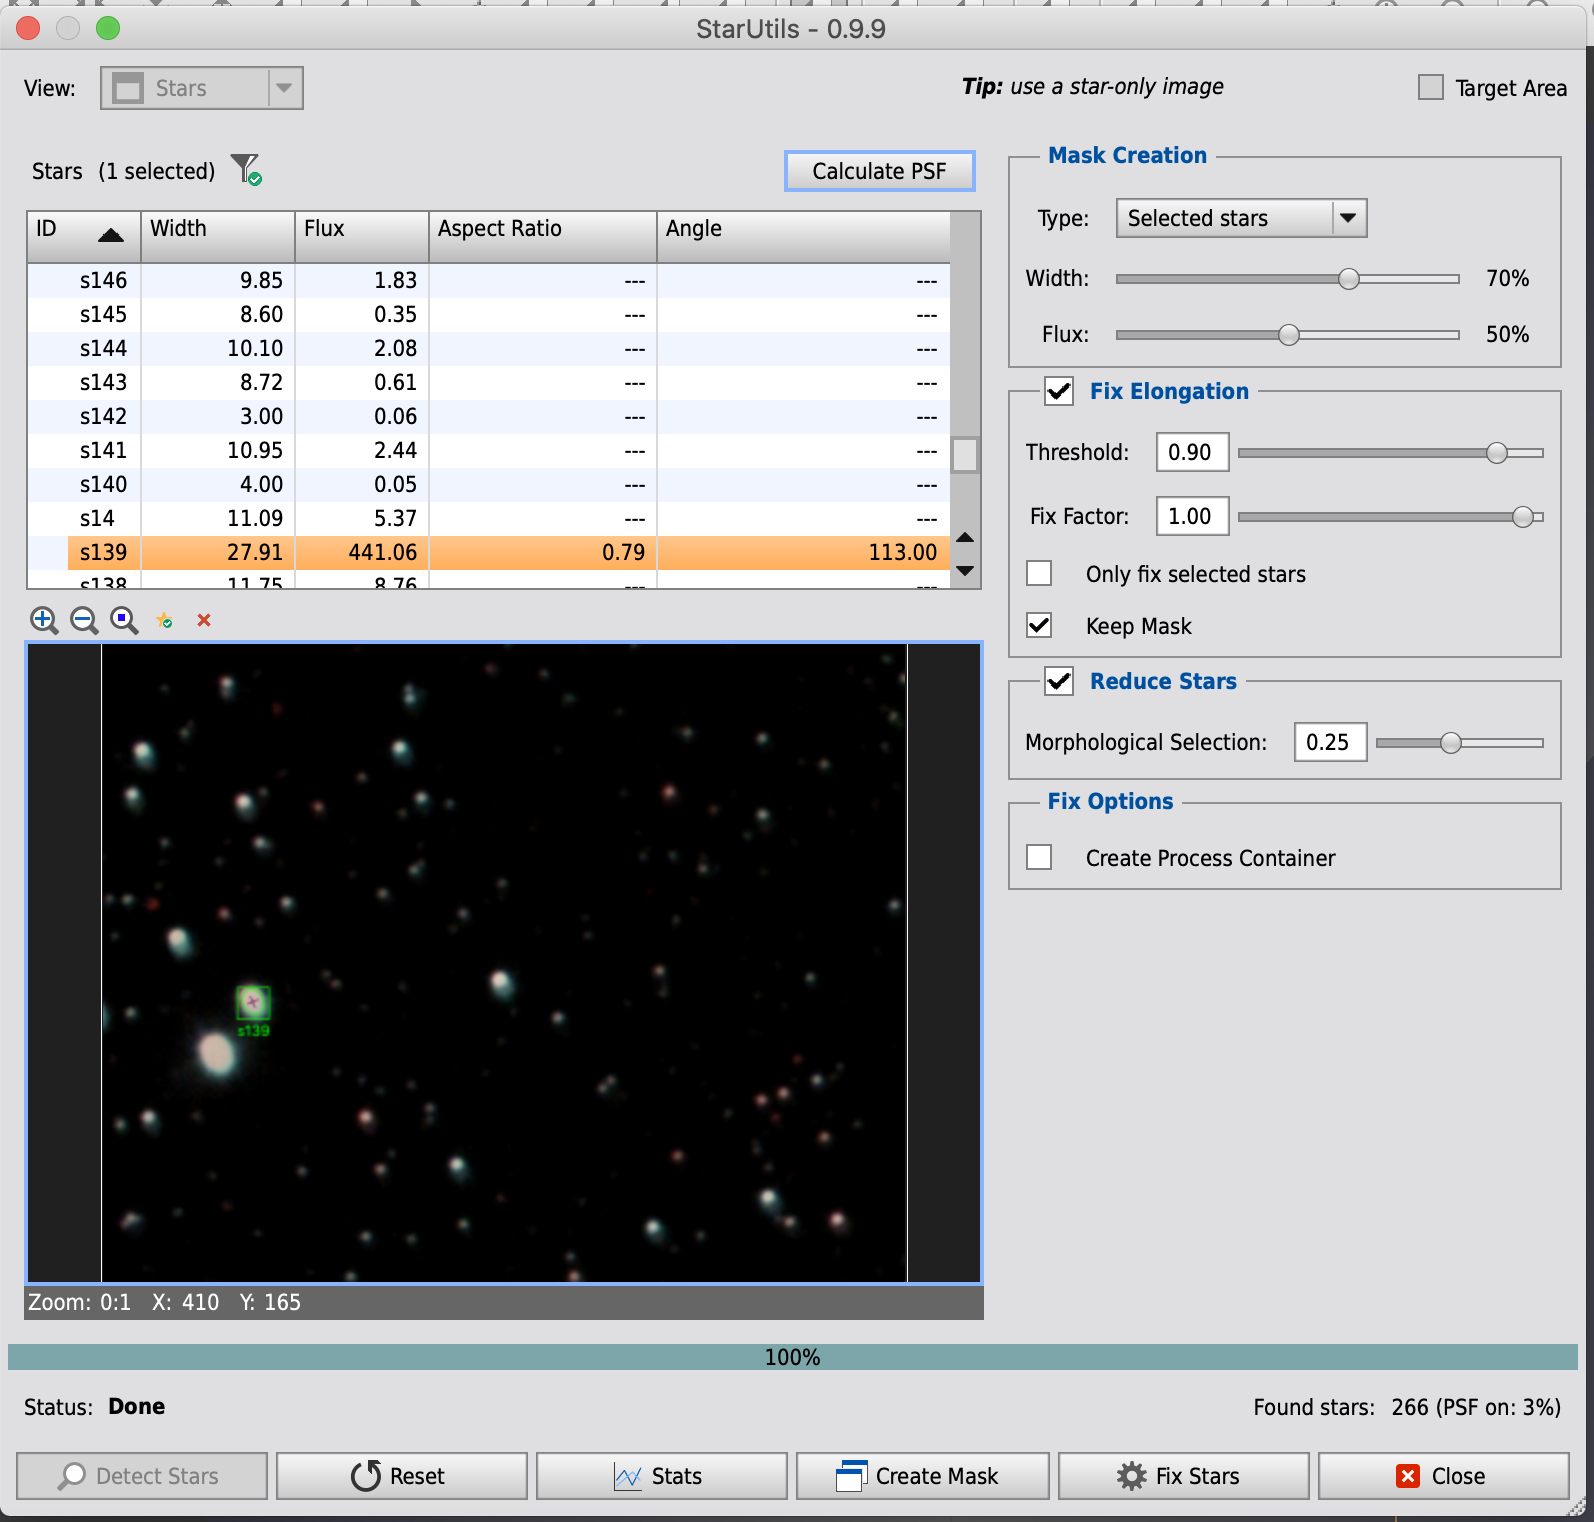
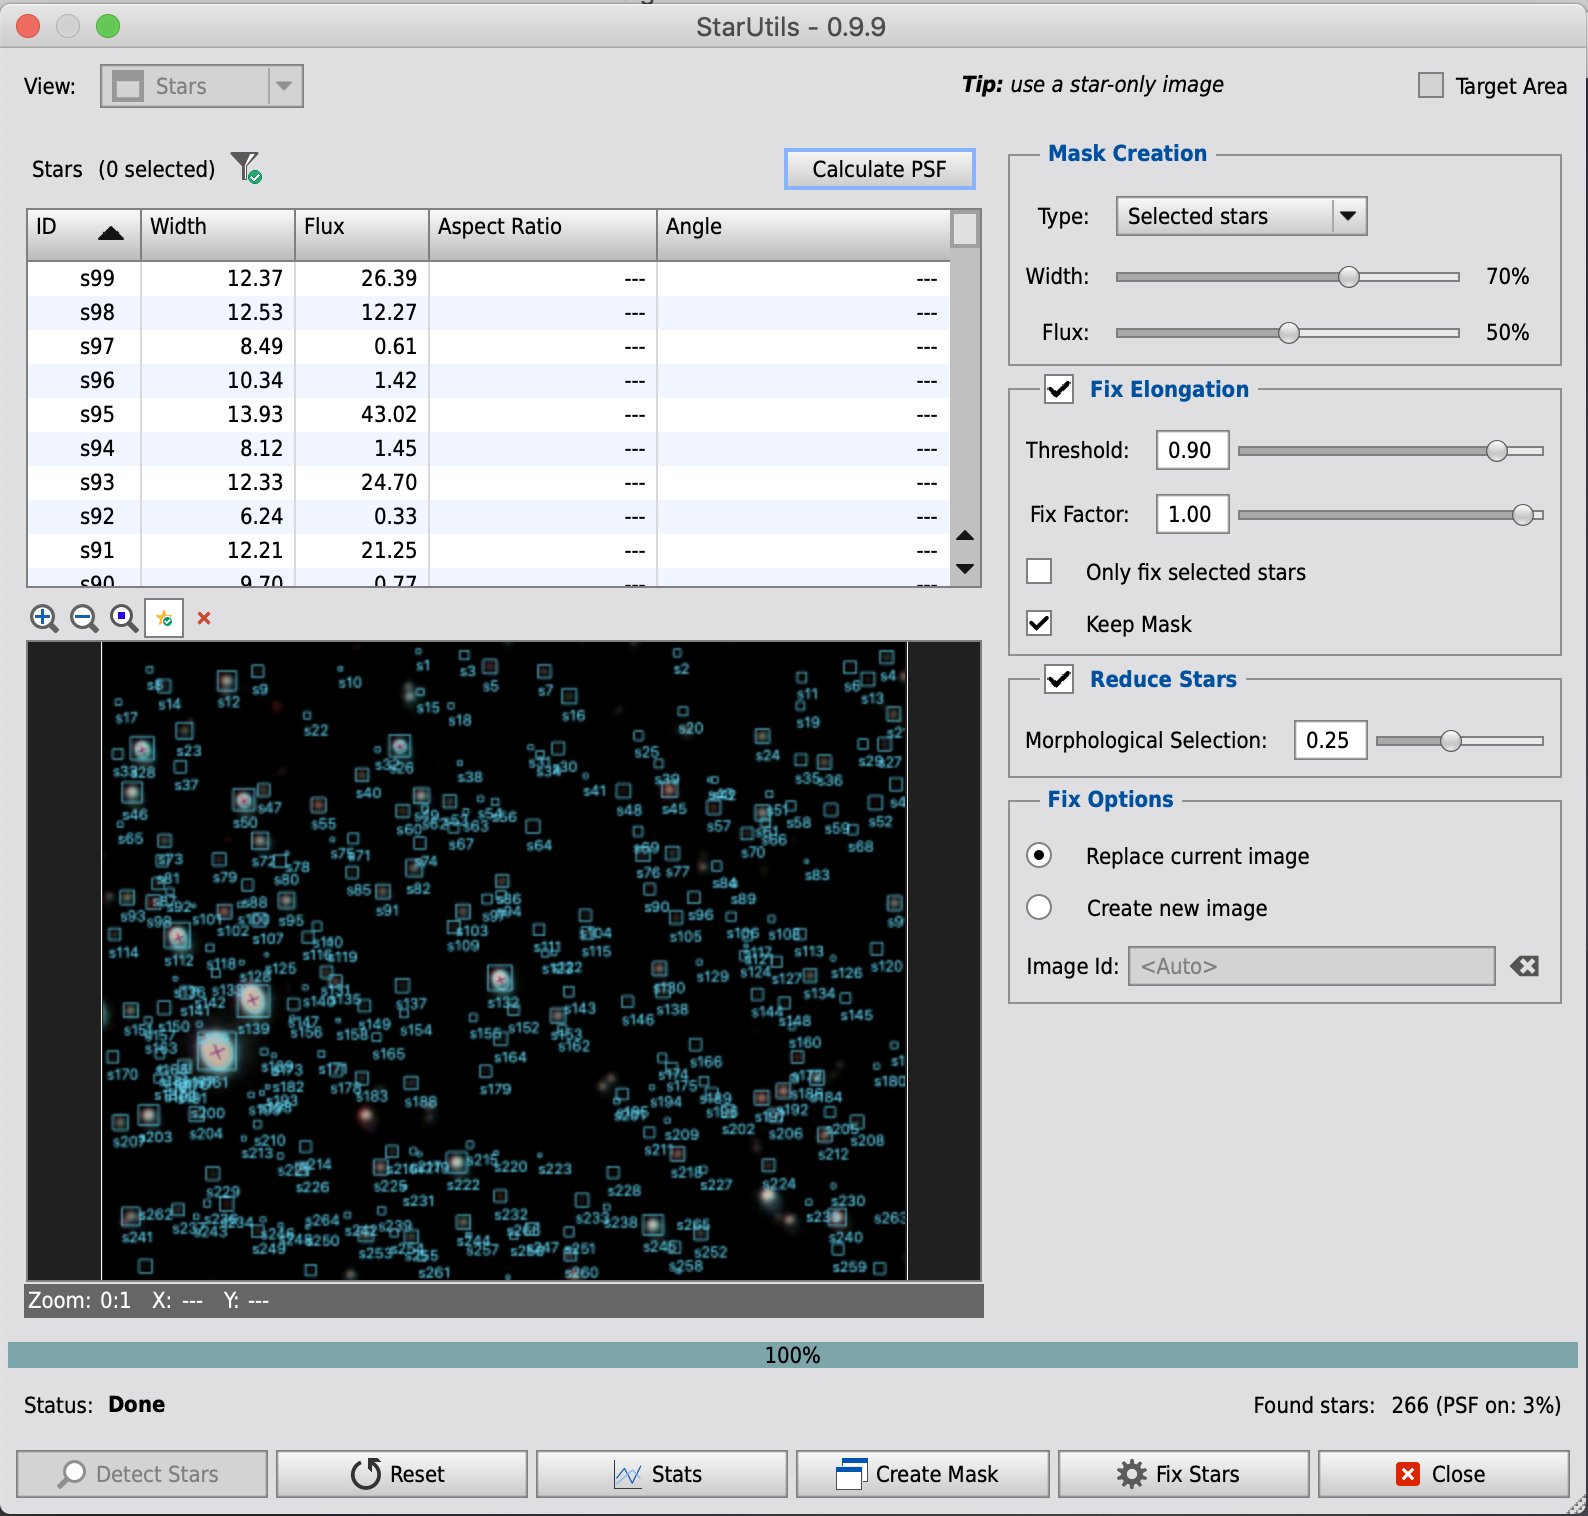
Add options to apply fixes on a new image.

diff --git a/StarUtils-GUI.js b/StarUtils-GUI.js
@@ -38,6 +38,8 @@
 #ifndef __STARUTILS_GUI_JS__
 #define __STARUTILS_GUI_JS__
 
+#define TEXTFIELD_AUTO '<Auto>'
+
 var StarUtilsUI = {
    starDetector: [
       {
@@ -224,7 +226,7 @@ var StarUtilsUI = {
       },
    ],
    fixOptions: [
-      {
+      /*{
          label: 'Create Process Container',
          propertyName: 'fixCreateProcessContainer',
          type: CheckBox,
@@ -232,6 +234,31 @@ var StarUtilsUI = {
          onCheck: 'onCreateProcessContainerCheck',
          tip: "Create a ProcessContainer instance containing all processes\n"+
               "applied to fix stars",
+      },*/
+      {
+         label: 'Replace current image',
+         propertyName: 'fixReplaceCurrentImage',
+         type: RadioButton,
+         checked: true,
+         onCheck: 'onDestinationImageChange',
+         tip: "Apply fixes to current image."
+      },
+      {
+         label: 'Create new image',
+         propertyName: 'fixCreateNewImage',
+         type: RadioButton,
+         checked: false,
+         onCheck: 'onDestinationImageChange',
+         tip: "Apply fixes to current image."
+      },
+      {
+         label: 'Image Id',
+         propertyName: 'fixNewImageID',
+         type: Edit,
+         enabled: false,
+         clearButton: true,
+         value: TEXTFIELD_AUTO,
+         tip: "New Image Id."
       },
    ],
    filterStarsDialog: [
@@ -1258,6 +1285,7 @@ function StarUtilsDialog (options) {
    this.status = null;
    this.detecting = false;
    this.abortRequested = false;
+   this.createNewImage = false;
    var me = this;
 
    this.onClose = function (retval) {
@@ -1811,7 +1839,9 @@ function StarUtilsDialog (options) {
          var getMaxWidth = function (control) {
             var w = 0;
             var t = control.type;
-            if (control.label && t !== GroupBox && t !== CheckBox) {
+            var hasLabelLeft =
+               (t !== GroupBox && t !== CheckBox && t !== RadioButton);
+            if (control.label && hasLabelLeft) {
                w = me.font.width(control.label + ':');
             }
             if (w > maxWidth) maxWidth = w;
@@ -1849,18 +1879,19 @@ function StarUtilsDialog (options) {
       var isGroupBox = (type === GroupBox);
       var isButton = (type === PushButton);
       var isCheckbox = (type === CheckBox);
+      var isRadio = (type === RadioButton);
       if (!isGroupBox && !isButton && label) {
          var txt = label;
          label = new Label(element);
          label.text = txt;
-         if (!isCheckbox) label.text += ':';
+         if (!isCheckbox && !isRadio) label.text += ':';
          var lblAlign = (isCheckbox ? TextAlign_Left : TextAlign_Right);
          label.textAlignment = lblAlign | TextAlign_VertCenter;
          var labelWidth = opts.labelWidth || control.labelWidth;
          if (!labelWidth && opts.section)
             labelWidth = this.calculateLabelFixedWidth(label, opts.section);
          labelWidth = labelWidth || labelW;
-         if (!isCheckbox)label.setFixedWidth(labelWidth);
+         if (!isCheckbox && !isRadio) label.setFixedWidth(labelWidth);
       }
       if (type === NumericControl || type === NumericEdit ||
           type === SpinBox || type === HorizontalSlider)
@@ -1919,6 +1950,21 @@ function StarUtilsDialog (options) {
                if (onValueUpdated) onValueUpdated.call(element, val);
             }
          }
+      } else if (type === Edit) {
+         elementSizer = me.createHorizontalSizer(sizer);
+         if (label) elementSizer.add(label, 0, align);
+         element.readOnly = (control.readOnly === true);
+         if (value) element.text = '' + value;
+         elementSizer.add(element, 1, align);
+         if (control.clearButton === true) {
+            var clearButton = new ToolButton;
+            clearButton.icon =
+               me.scaledResource(":/icons/clear.png");
+            clearButton.setScaledFixedSize(20,20);
+            clearButton.toolTip = "Clear";
+            clearButton.onClick = function () {element.clear()};
+            elementSizer.add(clearButton, 1, align);
+         }
       } else if (isGroupBox) {
          if (label) element.title = label;
          if (control.checkbox) {
@@ -1949,7 +1995,7 @@ function StarUtilsDialog (options) {
          items.forEach(item => {element.addItem(item)});
          elementSizer.add(element, 1, Align_Left);
          //elementSizer.addStretch(numericEditW);
-      } else if (isCheckbox) {
+      } else if (isCheckbox || isRadio) {
          element.setFixedWidth(me.font.width('MMM'));
          elementSizer = me.createHorizontalSizer(sizer);
          elementSizer.add(element, 0, align);
@@ -1971,6 +2017,8 @@ function StarUtilsDialog (options) {
          elementSizer.addStretch();
       if (elementSizer) sizer.add(elementSizer);
       else sizer.add(element);
+      if (control.enabled === false || control.disabled === true)
+         element.enabled = false;
       if (name) {
          me.optControls[name] = {
             element: element,
@@ -2041,8 +2089,20 @@ function StarUtilsDialog (options) {
          alert("Both 'Fix Elongated Stars' && 'Reduce Stars' are disabled");
          return;
       }
+      this.destWin = null;
+      if (this.createNewImage) {
+         var newImageId = this.fixNewImageID.text;
+         if (newImageId === TEXTFIELD_AUTO) newImageId = '';
+         this.destWin = sd.cloneCurrentWindow('fixed_stars', {copyImage: true});
+         if (newImageId.trim().length > 0)
+            this.destWin.mainView.id = newImageId;
+      }
       var processContainer = this.processContainer = null;
-      if (this.fixCreateProcessContainer.checked)
+      var createProcessContainer = (
+         this.fixCreateProcessContainer !== undefined &&
+         this.fixCreateProcessContainer.checked
+      );
+      if (createProcessContainer)
          processContainer = this.processContainer = new ProcessContainer;
       me.enabled = false;
       try {
@@ -2063,6 +2123,7 @@ function StarUtilsDialog (options) {
                keepMask: keepMask,
                filter: filter,
                processContainer: processContainer,
+               win: this.destWin,
             };
             sd.fixElongatedStars(fixOpts);
          }
@@ -2074,7 +2135,7 @@ function StarUtilsDialog (options) {
                selection: selection,
                processContainer: processContainer,
             };
-            sd.reduceStars(null, null, reduceOptions);
+            sd.reduceStars(null, this.destWin, reduceOptions);
          }
          if (me.abortRequested) return;
          var question = "Star fixing completed. Do you want to rescan image?";
@@ -2113,6 +2174,12 @@ function StarUtilsDialog (options) {
    this.onCreateProcessContainerCheck = function (checked) {
       if (checked)
          me.alert("Warning: this option could generate too much mask images!");
+   };
+
+   this.onDestinationImageChange = function (checked) {
+      var control = this;
+      me.createNewImage = (checked && (control === me.fixCreateNewImage));
+      me.fixNewImageID.enabled = me.createNewImage;
    };
 
    var labelW = this.font.width("Upper Peak Limit:");
@@ -2444,6 +2511,17 @@ function StarUtilsDialog (options) {
       });
       sizer.addStretch();
    }
+
+
+   this.fixNewImageID.onGetFocus = function () {
+      var text = this.text;
+      if (text === TEXTFIELD_AUTO) this.clear();
+   };
+
+   this.fixNewImageID.onLoseFocus = function () {
+      var text = this.text;
+      if (text.trim().length === 0) this.text = TEXTFIELD_AUTO;
+   };
 
    this.rightSizer.add(maskBox);
    this.rightSizer.add(fixElongationBox);

diff --git a/doc/PIDoc/scripts/StarUtils/StarUtils.html b/doc/PIDoc/scripts/StarUtils/StarUtils.html
@@ -49,7 +49,8 @@
 <ul>
 <li class="pidoc_tocSubitem"><a href="#__Using_StarUtils_:_Fixing_stars_:_Fix_Elongation__">3.7.1&emsp;Fix Elongation</a></li>
 <li class="pidoc_tocSubitem"><a href="#__Using_StarUtils_:_Fixing_stars_:_Reduce_Stars__">3.7.2&emsp;Reduce Stars</a></li>
-<li class="pidoc_tocSubitem"><a href="#__Using_StarUtils_:_Fixing_stars_:_Examples__">3.7.3&emsp;Examples</a></li>
+<li class="pidoc_tocSubitem"><a href="#__Using_StarUtils_:_Fixing_stars_:_Fix_Options__">3.7.3&emsp;Fix Options</a></li>
+<li class="pidoc_tocSubitem"><a href="#__Using_StarUtils_:_Fixing_stars_:_Examples__">3.7.4&emsp;Examples</a></li>
 </ul>
 </li>
 </ul>
@@ -170,7 +171,7 @@
 <div class="pidoc_figure" style="width:50%;">
 <a id="__figure_3__"></a>
 <img style="width:100%;" src="images/starutils-dialog-detection-list-preview.png" alt=""/>
-<p><span class="pidoc_figure_title">Figure 3 &mdash;</span>  Script window after star detection</p>
+<p><span class="pidoc_figure_title">Figure 3 &mdash;</span>  The star list and the preview image. Selected stars are marked by a green box.</p>
 </div>
 <p>The star list will list all the detected stars. Each star will be identified by an <strong>ID</strong> that is something like <em>s1</em>,<em>s2</em>, and so on, where the number depends on the detection order. Every star will display it's width (in pixel), flux, aspect ratio and angle. Width refers to the side of the box detected around the star itself by <strong>StarDetector</strong>. Aspect ratio and angle will <strong>only be available for stars having a PSF solution</strong>. You can increase the number of stars with a PSF soluton by changing the PSF parameters. The PSF soluton can be recalculated by clicking on the <strong>Calculate PSF</strong> button without the need to reset the current window. Aspect ratio is the ratio between PSF width and PSF height. So a perfect rounded star will ideally have an aspect ratio of 1.0. The lower the aspect ratio, the higher is the star elongation.</p>
 <p><strong>Warning:</strong> be aware that sometimes two or more stars could be detected as a single star by <strong>DynamicPSF</strong>, and this can result in a wrong aspect ratio and angle and, consequently, in a bad <em>elongation fix</em>.</p>
@@ -261,15 +262,42 @@
 <p>Star (size) reduction is achieved using <strong>MorphologicalTransformation</strong> PixInsight's process. You can disable the star reduction by disabling the <strong>Reduce Stars</strong> checkbox. You can choose the amount of reduction by tuning the <em>Morphological Selection</em> slider inside the box.</p>
 </div>
 
+<div class="pidoc_subsection" id="__Using_StarUtils_:_Fixing_stars_:_Fix_Options__">
+   <h5 class="pidoc_subsectionTitle">3.7.3&emsp;Fix Options</h5>
+
+<table class="pidoc_table">
+<caption>Fix Options</caption>
+<tr>
+<td><p><strong>Replace current image</strong></p>
+</td>
+<td><p>Apply fixes un current selected image.</p>
+</td>
+</tr>
+<tr>
+<td><p><strong>Create new image</strong></p>
+</td>
+<td><p>Apply fixes on a new image that's a clone of the current selected image.</p>
+</td>
+</tr>
+<tr>
+<td><p><strong>Image Id</strong></p>
+</td>
+<td><p>If <strong>Create new image</strong> is enabled, this field allows you to specify the new image ID (leave it empty or &lt;Auto&gt; in order to give it an automatic Id).</p>
+</td>
+</tr>
+</table>
+
+</div>
+
 <div class="pidoc_subsection" id="__Using_StarUtils_:_Fixing_stars_:_Examples__">
-   <h5 class="pidoc_subsectionTitle">3.7.3&emsp;Examples</h5>
+   <h5 class="pidoc_subsectionTitle">3.7.4&emsp;Examples</h5>
 
 <div class="pidoc_figure" style="width:50%;">
 <a id="__figure_4__"></a>
 <img style="width:100%;" src="images/star_utils_unfixed.jpg" alt=""/>
 <img style="width:100%;" src="images/star_utils_fix_elong.jpg" alt=""/>
 <img style="width:100%;" src="images/star_utils_fix_elong_reduce.jpg" alt=""/>
-<p><span class="pidoc_figure_title">Figure 4 &mdash;</span>  From left to right: unfixed image, same image after elongation fix and, on the right, after elongation fix and star reduction.</p>
+<p><span class="pidoc_figure_title">Figure 4 &mdash;</span>  From top to bottom: unfixed image, same image after elongation fix and, on the right, after elongation fix and star reduction.</p>
 </div>
 </div>
 
@@ -285,7 +313,7 @@
 </div>
 
 <div id="footer">
-   <p>Generated by the PixInsight Documentation Compiler script version 1.6.5 on 2021-01-20 15:47:59 UTC</p>
+   <p>Generated by the PixInsight Documentation Compiler script version 1.6.5 on 2021-01-21 12:50:40 UTC</p>
 </div>
 <br/>
 <br/>

diff --git a/StarUtils-lib.js b/StarUtils-lib.js
@@ -1012,7 +1012,7 @@ StarUtils.prototype = {
       new_w.mainView.id = win.mainView.id + '_' + suffix;
       if (opts.copyImage) {
          new_w.mainView.beginProcess(UndoFlag_NoSwapFile);
-         new_w.mainView.assign(img);
+         new_w.mainView.image.assign(img);
          new_w.mainView.endProcess();
       }
       if (is_temp) this.temporaryWindows.push(new_w);
